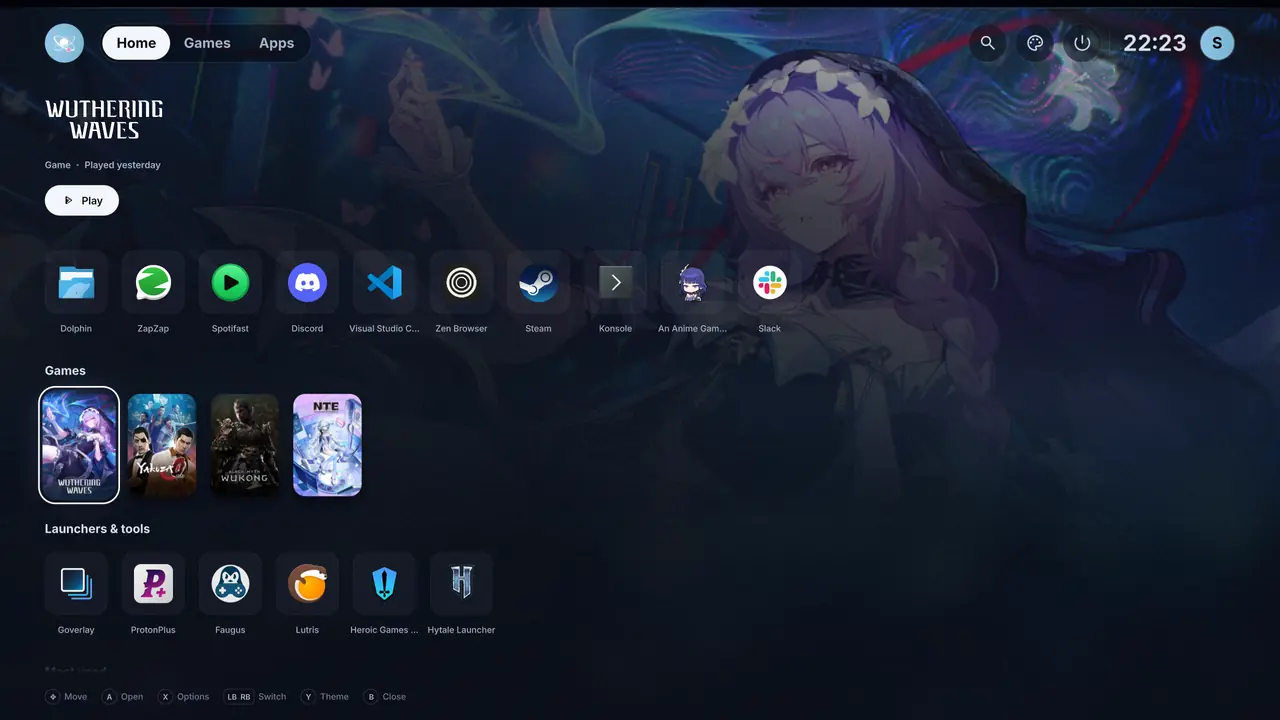
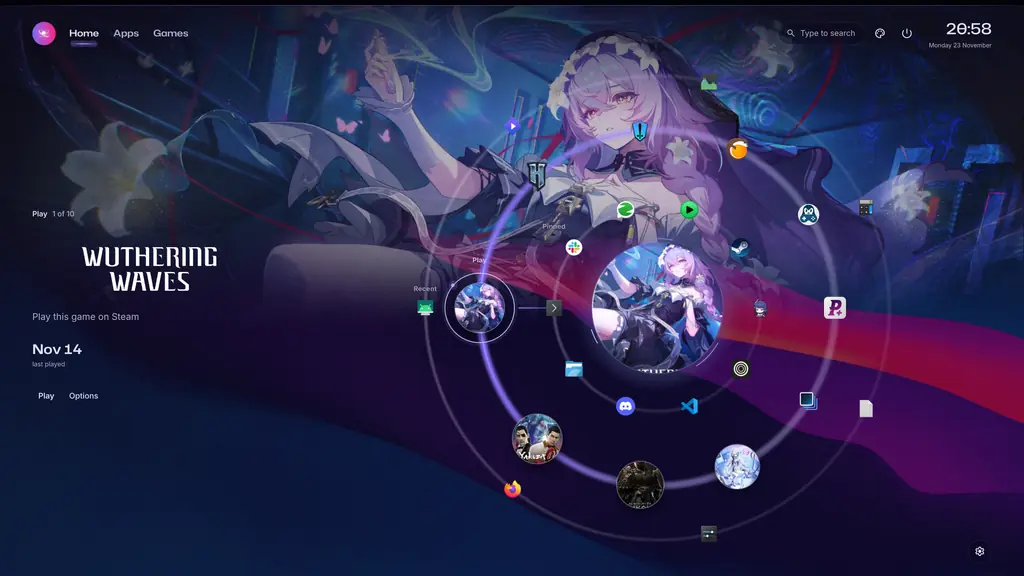
Update Atom Plasma showcase with the prof theme, orbital launcher and widgets
Replace the three November 15 shots with four views across the three screens of
the prof theme: the desktop with the open Claude usage widget (main 1440p Torii
gates), Atom's orbital launcher on Home with Wuthering Waves focused (laptop
neon waves), the redesigned Theme Studio (4K Mt. Fuji), and the live CPU/RAM/GPU
system meters popup (laptop neon waves).

Support per-screen colour overrides in make_data.py palettes so prof's main
screen matches its live crimson/moss palette, size shots at 1024 px WebP 74
(432 KB across all 13 images), update the wipe test for dynamic shot counts, and
bump the intro line count to 46,000 lines of code.

diff --git a/gen/make_data.py b/gen/make_data.py
@@ -2,7 +2,7 @@
 """Rebuilds gen/data/ on this machine. Never runs in CI: the daily build only reads what this writes.
 
     fonts     Geist Mono as outlines, because an SVG inside an <img> can't count on loading a font
-    shots     the three screenshots, cut down to what the Atom panel can show
+    shots     the four screenshots, cut down to what the Atom panel can show
     palettes  their wallpapers through Atom Plasma's own palette engine (as the desktop computed them)
     libt      a real `libt all` run of the tester against the real libft
 
@@ -30,16 +30,21 @@ GEIST = "https://cdn.jsdelivr.net/fontsource/fonts/geist-mono@5.3.0/latin-{}-nor
 FACES = {"m400": 400, "m500": 500}
 CHARS = "".join(map(chr, range(32, 127))) + "·—°"
 
-SHOTS = ("desktop", "home", "theme")
-SHOT_WIDTH = 1280
-SHOT_QUALITY = 74       # (all three must keep the page under its 500 KB: at 80 the busy desktop shot alone was 113 KB)
-# what each screenshot was taken on: my saved themes' wallpapers (neony, tokyo nigh, jjk). The shots come from
-# Atom Plasma's tools/nested/showcase.sh WALLPAPER OUT: the main screen in a nested Plasma, in that wallpaper's
-# palette, with nothing of mine on it (desk.png, game.png and look.png here)
+SHOTS = ("desktop", "home", "theme", "stats")
+SHOT_WIDTH = 1024       # ~2x the ~515 px rendered width on GitHub; keeps all four shots well under 500 KB
+SHOT_QUALITY = 74
+# what each screenshot was taken on: the three monitors of my "prof" theme (main 1440p Torii gates, laptop neon
+# waves, 4K Mt. Fuji), taken in a nested Plasma (Atom Plasma's tools/nested/) with nothing of mine on them:
+# desktop + Claude usage widget, Atom's orbital launcher, the redesigned Theme page and the live System meters
 WALLPAPERS = {
-    "desktop": pathlib.Path.home() / "Pictures/Wallpapers/wallhaven-e76yzr.jpg",
-    "home": pathlib.Path.home() / "Pictures/Wallpapers/wallhaven-wy6vqx.jpg",
-    "theme": pathlib.Path.home() / "Pictures/Wallpapers/wallhaven-y8mmrk.jpg",
+    "desktop": pathlib.Path.home() / "Pictures/Wallpapers/wallhaven-k88z5m.jpg",
+    "home": pathlib.Path.home() / "Pictures/Wallpapers/wallhaven-3z91ey.jpg",
+    "theme": pathlib.Path.home() / "Pictures/Wallpapers/wallhaven-5ymyz7.jpg",
+    "stats": pathlib.Path.home() / "Pictures/Wallpapers/wallhaven-3z91ey.jpg",
+}
+# per-screen colour overrides from "prof" (~/.local/state/rice/overrides.json) so palettes() matches what's on screen
+OVERRIDES = {
+    "desktop": {"intensity": 1.0, "primary": "#a62323", "secondary": "#8fa033", "tertiary": "#828282", "mood": "soft"},
 }
 # what the panel prints as a palette, darkest to lightest, by the engine's names
 RAMP = ("background", "surface_high", "primary_dim", "tertiary", "primary", "secondary")
@@ -132,7 +137,7 @@ def palettes():
         if not source or not source.is_file():
             print(f"{name}: no {source}, using the screenshot")
             source = ASSETS / f"atom-{name}.webp"
-        colours = palette_for(source, util.settings(), None)
+        colours = palette_for(source, util.settings(), OVERRIDES.get(name))
         out[name] = [colours[key] for key in RAMP]
     (DATA / "palettes.json").write_text(json.dumps(out, indent=1))
     print(out)

diff --git a/gen/panels.py b/gen/panels.py
@@ -11,12 +11,12 @@ import letters
 from kit import DATA, DIM, FAINT, INK, LINE, SIG, Svg, VOID, arrow, dots, num, plate, sigil
 
 ASSETS = DATA.parent.parent / "assets"
-SHOTS = ("desktop", "home", "theme")      # the desktop, the launcher's Home, its Theme page
+SHOTS = ("desktop", "home", "theme", "stats")   # desktop + Claude widget, Atom launcher, Theme page, System meters
 PALETTES = json.loads((DATA / "palettes.json").read_text(encoding="utf-8"))
 PRIMARY = 4                 # the primary accent's place in a palette's ramp
 
-SWITCH = 6                  # seconds a wallpaper stays
-WIPE = .9                   # seconds a wallpaper takes to replace the last
+SWITCH = 5                  # seconds a view stays
+WIPE = .9                   # seconds a view takes to replace the last
 WIPE_FPS = 24
 
 PASS_AT = .16               # seconds per function in the tester's replay
@@ -36,7 +36,7 @@ def atom(commits):
     h = 424
     box = 24, 52, 620, 348
     s = Svg(h, "Atom Plasma: a KDE Plasma 6 rice driven by the wallpaper, with a shell and a launcher of its own.",
-            "The desktop, the launcher and its Theme page on three wallpapers, each with the palette the rice computed from it.")
+            "The desktop with its Claude usage widget, Atom's orbital launcher, its Theme page and live system meters on three wallpapers, each with the palette the rice computed from it.")
     plate(s, "0x10", "ATOM PLASMA", f"{commits} COMMITS")
     s.add(arrow(s.w - 16, 26))
 

diff --git a/tests/test_gen.py b/tests/test_gen.py
@@ -102,7 +102,7 @@ class Motion(unittest.TestCase):
 
     def test_the_wipe_holds_still_between_wipes(self):
         svg = IMAGES["atom"]
-        for name in ("w1", "w2", "w3", "scan"):
+        for name in [f"w{i}" for i in range(1, len(panels.SHOTS) + 1)] + ["scan"]:
             self.assertRegex(svg, rf"\.{name}\{{[^}}]*step-end infinite")
 
     def test_the_scan_bar_is_off_outside_a_wipe(self):

diff --git a/HOW_IT_WORKS.md b/HOW_IT_WORKS.md
@@ -73,7 +73,7 @@ That is why inline CSS works and an external file wouldn't.
 ```
 README.md               the page itself: text, plus links to the images
 HOW_IT_WORKS.md         this file
-assets/                 the three screenshots in the Atom panel (the desktop, the launcher, its Theme page)
+assets/                 the four screenshots in the Atom panel (desktop + Claude widget, launcher, Theme page, system meters)
 gen/
   build.py              the entry point: fetches data, draws everything, writes dist/
   kit.py                the drawing kit every image shares
@@ -83,7 +83,7 @@ gen/
   make_data.py          rebuilds gen/data/, only ever run by hand
   data/
     glyphs.json         Geist Mono as vector outlines
-    palettes.json       the rice's palette engine, run on the three screenshots' wallpapers
+    palettes.json       the rice's palette engine, run on the screenshots' wallpapers
     libt-run.txt        a recorded real run of Libft_Tester
     NOTICE.md           licences
 tests/test_gen.py       the test suite
@@ -439,11 +439,12 @@ colliding with the text.
 
 ### Atom Plasma: the wipe
 
-Three screenshots are embedded in the SVG as base64. They're defined once in `<defs>` and stacked with `<use>`, so the
+Four screenshots are embedded in the SVG as base64. They're defined once in `<defs>` and stacked with `<use>`, so the
 image data isn't repeated even though the first one appears twice:
 
 ```
 top     desktop again   ← wipes in last, and closes the loop
+        stats
         theme
         home
 bottom  desktop
@@ -454,20 +455,21 @@ Each upper layer starts fully clipped and wipes in:
 ```css
 @keyframes w1 {
   0%      { clip-path: inset(0 100% 0 0) }
-  28.33%  { clip-path: inset(0 100% 0 0); animation-timing-function: steps(22) }
-  33.33%, 100% { clip-path: inset(0 0 0 0) }
+  20.5%   { clip-path: inset(0 100% 0 0); animation-timing-function: steps(22) }
+  25%, 100% { clip-path: inset(0 0 0 0) }
 }
 ```
 
-`inset(0 100% 0 0)` cuts 100% from the right, so nothing shows. `inset(0 0 0 0)` shows everything. Over 18 seconds, the
-wipes run at 5.1, 11.1 and 17.1 s. When the loop restarts, the top desktop layer disappears to reveal the bottom one,
-which looks identical, so you never see the seam.
+`inset(0 100% 0 0)` cuts 100% from the right, so nothing shows. `inset(0 0 0 0)` shows everything. Over 20 seconds, the
+wipes run at 4.1, 9.1, 14.1 and 19.1 s. When the loop restarts, the top desktop layer disappears to reveal the bottom
+one, which looks identical, so you never see the seam.
 
 A thin lime bar follows the wipe's edge, on the same timing. Each palette switches halfway through its wipe.
 
-The three frames are three of my saved themes, each showing a different part of the rice: the desktop (neony), the
-launcher's Home with a game focused (tokyo nigh) and its Theme page (jjk). The swatches are the real output of Atom
-Plasma's palette engine for each frame's wallpaper, the same function that coloured the desktop in it (`palette_for`),
+The four frames come from the three screens of my `prof` theme, each showing a different part of the rice: the desktop
+with its Claude usage widget open (main 1440p Torii gates), Atom's orbital launcher on Home with a game focused (laptop
+neon waves), its Theme page (4K Mt. Fuji), and the live CPU/RAM/GPU system meters popup (laptop neon waves). The
+swatches are the real output of Atom Plasma's palette engine for each screen (`palette_for`, including its overrides),
 run by `make_data.py palettes`. This is the only colour on the page, because colour is what the project does.
 
 ### Libft Tester: the board
@@ -646,18 +648,21 @@ python3 gen/make_data.py fonts      # the outlines again, after changing CHARS o
 ### Replace the screenshots
 
 Atom Plasma takes them itself, in a nested Plasma session, so nothing of mine is on them (no windows, no
-notifications) and my own desktop doesn't change: `tools/nested/showcase.sh WALLPAPER OUT` puts the main screen
-(2560x1440 at 1.15) in that wallpaper's palette and saves `desk.png`, `home.png`, `game.png` and `look.png`. Save
-the three you want, full size, as `assets/atom-desktop.webp`, `atom-home.webp` and `atom-theme.webp` (lossless is fine:
-`shots` brings them down), point `WALLPAPERS` in `gen/make_data.py` at their wallpapers, then run:
+notifications) and my own desktop doesn't change: `tools/nested/showcase.sh` (for the desktop and bar popups) and
+`tools/nested/look-launcher.sh` (with `ATOM_STYLE=atom ATOM_MYAPPS=1 ATOM_WALL=...` for the launcher and its Theme
+page) put the main screen (2560x1440 at 1.15) in each wallpaper's palette. Save the four you want, full size, as
+`assets/atom-desktop.webp`, `atom-home.webp`, `atom-theme.webp` and `atom-stats.webp` (lossless is fine: `shots` brings
+them down), point `WALLPAPERS` (and `OVERRIDES`, if a screen uses custom accents) in `gen/make_data.py` at their
+wallpapers, then run:
 
 ```sh
 python3 gen/make_data.py shots palettes
 ```
 
-`shots` cuts them to 1280 px at WebP quality 74: the page has to stay under 500 KB (a test checks it), and at 80 the
-busy desktop shot alone was 113 KB. This repo is public and screenshots are forever, so look over each one for
-anything private first. To use other names, change `SHOTS` in both `gen/panels.py` and `gen/make_data.py`.
+`shots` cuts them to 1024 px at WebP quality 74 (still about 2x the ~515 px rendered width on GitHub): the page has to
+stay under 500 KB (a test checks it), and the sharp Noisy-only launcher backdrop and wallpaper grid pack denser than
+the old blurred views. This repo is public and screenshots are forever, so look over each one for anything private
+first. To use other names, change `SHOTS` in both `gen/panels.py` and `gen/make_data.py`.
 
 ### Redraw without waiting for the night
 

diff --git a/README.md b/README.md
@@ -4,11 +4,11 @@
 
 <samp>
 
-I'm Samir, also known as Zinoxx: a student at [42 Lisboa](https://www.42lisboa.com) and co-founder and lead engineer at [ViVia Technologies](https://viviatech.github.io). I also edit VFX, so I care about how software looks as much as how it runs, which is how a desktop theme turned into 40,000 lines of code.
+I'm Samir, also known as Zinoxx: a student at [42 Lisboa](https://www.42lisboa.com) and co-founder and lead engineer at [ViVia Technologies](https://viviatech.github.io). I also edit VFX, so I care about how software looks as much as how it runs, which is how a desktop theme turned into 46,000 lines of code.
 
 </samp>
 
-<a href="https://github.com/Zinoxx0/Atom-Plasma"><img src="https://raw.githubusercontent.com/Zinoxx0/Zinoxx0/output/atom.svg" width="100%" alt="Atom Plasma: a KDE Plasma 6 rice driven by the wallpaper, with a shell and a launcher of its own. Three wallpapers, three views: the desktop with its island bar and desk clock, the Atom Home launcher with a game's art filling the room, and its Theme page, each with the palette the rice computed from its wallpaper. The bars, terminals, VS Code, Zen, the login screen and the keyboard lighting all follow it."></a>
+<a href="https://github.com/Zinoxx0/Atom-Plasma"><img src="https://raw.githubusercontent.com/Zinoxx0/Zinoxx0/output/atom.svg" width="100%" alt="Atom Plasma: a KDE Plasma 6 rice driven by the wallpaper, with a shell and a launcher of its own. Four views across the three screens of the prof theme: the desktop with its island bar, desk clock, Clawd and open Claude usage widget, the Atom orbital launcher with a game's art filling the room, the redesigned Theme page, and the live CPU, RAM and GPU system meters widget, each with the palette the rice computed for its screen. The bars, terminals, VS Code, Zen, the login screen and the keyboard lighting all follow it."></a>
 
 <a href="https://github.com/Zinoxx0/Libft_Tester"><img src="https://raw.githubusercontent.com/Zinoxx0/Zinoxx0/output/libt.svg" width="100%" alt="Libft Tester: tells you exactly which call failed and why. It catches crashes, leaks, one byte past a malloc block and malloc failures. A board replays a real run where all 43 functions pass."></a>
 
